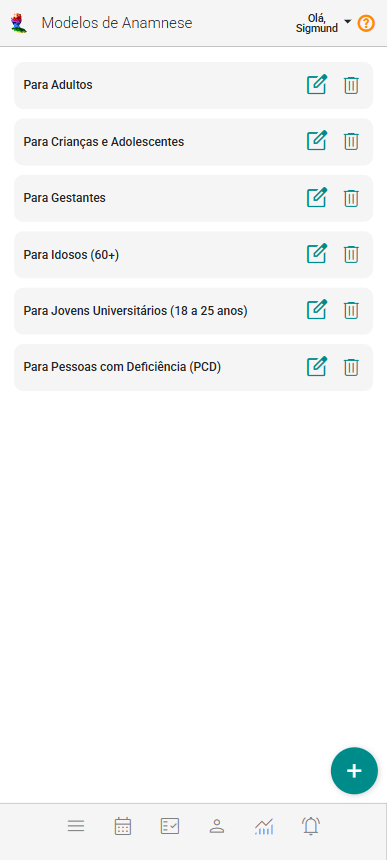
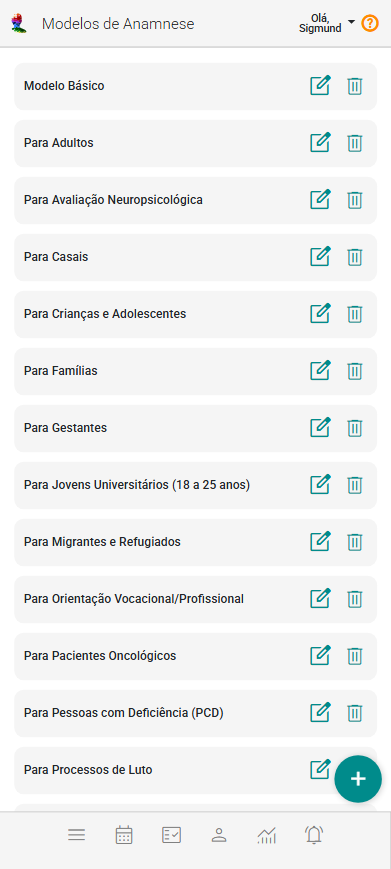
nilson

diff --git a/docs/03-funcionalidades/18-modelo-anamnese/00-visao.md b/docs/03-funcionalidades/18-modelo-anamnese/00-visao.md
@@ -34,11 +34,42 @@ A diferença entre prontuário e anamnese está no conteúdo, na finalidade e no
 
 O eConsult já vem com modelos adaptados ao seu perfil profissional, mas você pode personalizá-los ou criar novos modelos diretamente no painel "Modelos de Anamnese".
 
+Abaixo a tela de modelos de anamnese voltados para Psicologia:
+
 ![Modelos de Anamnese](../../../static/img/prints/anamnese/001.png)
 
-Os modelos de anamnese contêm "Tópicos", e dentro desses tópicos há "Campos".
+O eConsult tem mais de 50 modelos de anamnese para as diversas áreas de atuação. No caso de psicologia, por exemplo o econsult apresenta 26 modelos prontos para usar. São eles:
 
-Os tópicos organizam a anamnese em seções, permitindo que as informações sejam registradas de maneira lógica e estruturada. Dentro de cada tópico, há campos específicos que definem os dados a serem preenchidos, como observações, diagnósticos, tratamentos, ou outros detalhes relevantes.
+1. Modelo Básico
+1. Para Adultos
+1. Para Avaliação Neuropsicológica
+1. Para Casais
+1. Para Crianças e Adolescentes
+1. Para Famílias
+1. Para Gestantes
+1. Para Jovens Universitários (18 a 25 anos)
+1. Para Migrantes e Refugiados
+1. Para Orientação Vocacional/Profissional
+1. Para Pacientes Oncológicos
+1. Para Pessoas com Deficiência (PCD)
+1. Para Processos de Luto
+1. Para Profissionais em Situação de Burnout
+1. Para Terceira Idade (60+)
+1. Para Transtornos Alimentares e da Ingestão Alimentar
+1. Para Transtornos de Ansiedade
+1. Para Transtornos de Espectro da Esquizofrenia e Psicóticos
+1. Para Transtornos Dissociativos
+1. Para Transtornos do Humor (Afetivos)
+1. Para Transtornos do Neurodesenvolvimento
+1. Para Transtornos do Sono-Vigília
+1. Para Transtornos Obsessivo-Compulsivos e Relacionados
+1. Para Transtornos Relacionados a Trauma e Estressores
+1. Para Transtornos Somatoformes
+1. Para Vítimas de Trauma
+
+Cada modelo de anamnese contêm "Tópicos", e dentro desses tópicos há "Campos".
+
+Os tópicos são seções da anamnes, permitindo que as informações sejam registradas de maneira lógica e estruturada. Dentro de cada tópico, há campos específicos que definem os dados a serem preenchidos, como observações, diagnósticos, tratamentos, ou outros detalhes relevantes.
 
 ## Estrutura dos Modelos de Anamnese:
 
@@ -47,10 +78,20 @@ Os tópicos organizam a anamnese em seções, permitindo que as informações se
 
 ## Como Funciona:
 
-- **Criação do Modelo:** Ao cadastrar um modelo de anamnese, você define os tópicos e os campos que deverão ser preenchidos em cada um deles.
-- **Personalização dos Campos:** Os nomes dos campos podem ser totalmente personalizados conforme suas necessidades específicas de atendimento.
-- **Inclusão ou exclusão de Campos:** É possível adicionar ou remover campos dentro de cada tópico, de forma flexível e adaptável à sua prática profissional.
-- **Utilização de Pré-definições do sistema:** Ao iniciar um novo prontuário para um cliente, as pré-definições poderão ser utilizadas como base, guiando o preenchimento dos tópicos e campos de maneira estruturada.
+- **Criação do Modelo:**  
+  Ao cadastrar ou utilizar um modelo de anamnese no eConsult, você tem liberdade para definir os tópicos e os campos que deverão ser preenchidos. Isso permite adaptar cada modelo ao seu estilo de atendimento.
+
+- **Personalização de Campos:**  
+  Os nomes dos campos são totalmente personalizáveis, permitindo que você os ajuste conforme as necessidades específicas da sua prática profissional.
+
+- **Adição e Remoção de Campos:**  
+  É possível incluir novos campos ou remover os existentes dentro de cada tópico, de forma flexível e adaptável à realidade de cada público ou especialidade.
+
+- **Uso dos Modelos no Prontuário:**  
+  Ao iniciar um novo prontuário para um cliente, você pode utilizar um modelo previamente cadastrado como base. Ele serve como guia para o preenchimento estruturado dos tópicos e campos.  
+
+  Além disso, mesmo após selecionar um modelo, você ainda pode personalizá-lo conforme o perfil ou necessidade individual de cada cliente.
+
 
 ## Benefícios dos Modelos de Anamnese:
 
@@ -58,11 +99,9 @@ Os tópicos organizam a anamnese em seções, permitindo que as informações se
 - **Eficiência:** Facilita a criação e o preenchimento de prontuários, economizando tempo e reduzindo erros.
 - **Organização:** Ajuda a manter as informações bem estruturadas e acessíveis.
 
-## Pré-definições de Modelos de Anamnese
+## Inclui modelos de anamnese do eConsult
 
-Ao iniciar a criação de um novo modelo de anamnese, o sistema disponibiliza uma variedade de estruturas pré-definidas, desenvolvidas para atender diferentes perfis de profissionais e tipos de atendimento. Essas estruturas servem como um guia inicial, oferecendo uma base organizada com tópicos e campos comuns à sua prática consultiva.
-
-Após escolher uma dessas pré-definições, você tem total liberdade para editá-la conforme suas necessidades. É possível renomear tópicos, incluir novos campos, remover itens que não se aplicam à sua realidade e reorganizar o conteúdo como preferir. Isso garante que o modelo final reflita com precisão o seu método de trabalho, tornando o modelo uma ferramenta realmente útil, personalizado e alinhado com sua abordagem profissional.
+1. No painel "Modelos de Anamnese" clique no botão "Restaurar Padrões do Sistema" ![Modelo de Anamnese](../../../static/img/prints/buttons/btn_add.png).
 
 ## Incluir um novo Modelo de Anamnese
 

diff --git a/docs/03-funcionalidades/16-campanha-cashback/00-visao.md b/docs/03-funcionalidades/16-campanha-cashback/00-visao.md
@@ -2,21 +2,22 @@
 sidebar_position: 0
 ---
 
-# Sobre Campanhas de *cashback*
+# Sobre Campanhas de cashback
 
 :::danger ATENÇÃO
 Esta funcionalidade ainda etá em desenvolvimento e será liberada em breve
 :::
 
-A funcionalidade Campanhas de *cashback* permite que você crie incentivos personalizados para seus clientes, oferecendo *cashback* mensais com base em critérios de engajamento. O objetivo é recompensar clientes fiéis, incentivar a continuidade dos atendimentos e aumentar o volume de agendamentos.
+<!--
+A funcionalidade Campanhas de cashback permite que você crie incentivos personalizados para seus clientes, oferecendo cashback mensais com base em critérios de engajamento. O objetivo é recompensar clientes fiéis, incentivar a continuidade dos atendimentos e aumentar o volume de agendamentos.
 
-## O que são Campanhas de *cashback*?
+## O que são Campanhas de cashback?
 
-Campanhas de *cashback* consistem em ações promocionais criadas pelo especialista (você), que concedem *cashback* fixos (em reais) ou percentuais (%) sobre o valor dos atendimentos do mês, para clientes que atendam a determinados critérios. Esses critérios são configuráveis e permitem grande flexibilidade para adequar a campanha ao perfil de cada profissional e sua clientela.
+Campanhas de cashback consistem em ações promocionais criadas pelo especialista (você), que concedem cashback fixos (em reais) ou percentuais (%) sobre o valor dos atendimentos do mês, para clientes que atendam a determinados critérios. Esses critérios são configuráveis e permitem grande flexibilidade para adequar a campanha ao perfil de cada profissional e sua clientela.
 
-## Critérios para Concessão do *cashback*
+## Critérios para Concessão do cashback
 
-Você pode definir uma ou mais das seguintes condições para que o cliente tenha direito ao *cashback*:
+Você pode definir uma ou mais das seguintes condições para que o cliente tenha direito ao cashback:
 
 - **Score do Cliente**: baseado em critérios de score definidos no sistema. São os critérios possíveis:
     - **★★★★★ – Excelente – Muito acima da média**: O cliente, no período, demonstrou que está muito acima da média em valor gerado, frequência e engajamento. Costuma ser altamente fiel, constante e valioso para o negócio. Ideal para programas de fidelização e reconhecimento.
@@ -29,13 +30,13 @@ Você pode definir uma ou mais das seguintes condições para que o cliente tenh
 
 ### Exemplos:
 
-- “Clientes com score **cinco estrelas** e pelo menos 3 atendimentos no mês recebem 15% de *cashback*.”
+- “Clientes com score **cinco estrelas** e pelo menos 3 atendimentos no mês recebem 15% de cashback.”
 
-- “Clientes que **gastarem mais** de R$ 500,00 no mês **recebem** R$ 50,00 de ***cashback*”**
+- “Clientes que **gastarem mais** de R$ 500,00 no mês **recebem** R$ 50,00 de **cashback”**
 
-## Criar campanha de *cashback*
+## Criar campanha de cashback
 
-1. Acesse o menu "Campanhas de *cashback*".
+1. Acesse o menu "Campanhas de cashback".
 
 1. Clique em "Nova Campanha".
 
@@ -43,16 +44,16 @@ Você pode definir uma ou mais das seguintes condições para que o cliente tenh
 
     - Nome da campanha;
     - Período de validade;
-    - Tipo de *cashback* (fixo ou percentual);
-    - Valor do *cashback*;
+    - Tipo de cashback (fixo ou percentual);
+    - Valor do cashback;
     - Critérios de elegibilidade (score, frequência, valor acumulado);
     - Salve a campanha.
 
-### Aplicação do *cashback*:
+### Aplicação do cashback:
 
 Ao final de cada mês, o sistema avalia automaticamente quais clientes atenderam aos critérios.
 
-Os clientes elegíveis recebem o *cashback* (crédito antecipado) automaticamente que poderá ser gasto nos próximos atendimentos.
+Os clientes elegíveis recebem o cashback (crédito antecipado) automaticamente que poderá ser gasto nos próximos atendimentos.
 
 ### Acompanhamento:
 
@@ -66,3 +67,4 @@ O especialista pode acompanhar o desempenho da campanha, visualizando:
 - Campanhas podem ser pausadas, editadas ou encerradas a qualquer momento.
 - Cada cliente pode ser elegível a apenas uma campanha por mês (caso existam múltiplas ativas).
 :::
+-->

diff --git a/docs/03-funcionalidades/12-inadimplencias/00-visao.md b/docs/03-funcionalidades/12-inadimplencias/00-visao.md
@@ -16,7 +16,7 @@ Uma vez indicado o cliente ou grupo de atendimento, o sistema mostra:
 
 ![Painel Inadimplências](../../../static/img/prints/inadimplencias/002.png)
 
-Cada fatura é composta basicamente pelos seguintes elementos:
+Cada fatura é composto basicamente pelos seguintes elementos:
 
 - **Valor de Vencimento:** O montante a ser cobrado pelo atendimento prestado. Este valor é registrado na fatura e serve como base para o controle financeiro.
 - **Data de Vencimento:** A data limite para o pagamento da fatura. Ajuda a determinar o prazo em que o pagamento deve ser efetuado.
@@ -44,7 +44,7 @@ Sendo assim, no painel Faturas do Cliente, você encontrará duas sub-abas disti
 
 Na sub-aba Pendentes, você tem duas funções importantes para gerenciar faturas pendentes:
 
-- **Função "Notificar":** Permite notificar o cliente diretamente pelo WhatsApp sobre os pagamentos pendentes que estão marcados (selecionadas). Ao acionar essa função, uma mensagem personalizada pode ser enviada, alertando o cliente sobre a necessidade de quitação das faturas em aberto que estão marcadas (selecionadas). Essa comunicação direta ajuda a lembrar o cliente de forma rápida e eficaz.
+- **Função "Notificar":** Permite notificar o cliente diretamente pelo WhatsApp sobre os pagamentos pendentes que estão marcados (selecionados). Ao acionar essa função, uma mensagem personalizada pode ser enviada, alertando o cliente sobre a necessidade de quitação das faturas em aberto que estão marcadas (selecionadas). Essa comunicação direta ajuda a lembrar o cliente de forma rápida e eficaz.
 
     ![Painel Inadimplências](../../../static/img/prints/inadimplencias/006.png)
 
@@ -58,7 +58,7 @@ Na sub-aba Pendentes, você tem duas funções importantes para gerenciar fatura
 
 Na sub-aba Recebidas, você também dispõe de duas funções importantes para gerenciar as faturas já quitadas:
 
-- **Notificar:** Permite informar ao cliente, através do WhatsApp, que o pagamento das faturas marcadas (selecionadas) foram recebidas e registradas. Isso mantém o cliente atualizado e garante uma comunicação eficiente.
+- **Notificar:** Permite informar ao cliente, através do WhatsApp ou E-mail, que o pagamento das faturas marcadas (selecionadas) foram recebidas e registradas. Isso mantém o cliente atualizado e garante uma comunicação eficiente.
 - **Recibo:** Com essa função, você pode gerar e fornecer um recibo seu oficial para o cliente, contendo as faturas marcadas (selecionadas), documentando o pagamento efetuado de maneira clara e profissional.
 
 Essas funções ajudam a manter o registro financeiro organizado e a garantir uma comunicação transparente com o cliente.

diff --git a/docs/03-funcionalidades/08-faturas-cliente/00-visao.md b/docs/03-funcionalidades/08-faturas-cliente/00-visao.md
@@ -14,7 +14,7 @@ Uma vez indicado o cliente ou grupo de atendimento, o sistema mostra:
 
 ![Painel Faturas do Cliente](../../../static/img/prints/faturascliente/002.png)
 
-Cada *card* de fatura é composta basicamente pelos seguintes elementos:
+Cada *card* de fatura é composto basicamente pelos seguintes elementos:
 
 - **Valor de Vencimento:** O montante a ser cobrado pelo atendimento prestado. Este valor é registrado na fatura e serve como base para o controle financeiro.
 
@@ -46,7 +46,7 @@ Sendo assim, no painel Faturas do Cliente, você encontrará duas sub-abas disti
 
 Na sub-aba Pendentes, você tem duas funções importantes para gerenciar faturas pendentes:
 
-- **Função "Notificar":** Permite notificar o cliente diretamente pelo WhatsApp e/ou E-mail sobre os pagamentos pendentes que estão marcados (selecionadas). Ao acionar essa função, uma mensagem personalizada pode ser enviada, alertando o cliente sobre a necessidade de quitação das faturas em aberto que estão marcadas (selecionadas). Essa comunicação direta ajuda a lembrar o cliente de forma rápida e eficaz.
+- **Função "Notificar":** Permite notificar o cliente diretamente pelo WhatsApp ou E-mail sobre os pagamentos pendentes que estão marcados (selecionados). Ao acionar essa função, uma mensagem personalizada pode ser enviada, alertando o cliente sobre a necessidade de quitação das faturas em aberto que estão marcadas (selecionadas). Essa comunicação direta ajuda a lembrar o cliente de forma rápida e eficaz.
 
     ![Painel Faturas do Cliente](../../../static/img/prints/faturascliente/006.png)
 
@@ -60,7 +60,7 @@ Na sub-aba Pendentes, você tem duas funções importantes para gerenciar fatura
 
 Na sub-aba Recebidas, você também dispõe de duas funções importantes para gerenciar as faturas já quitadas:
 
-- **Notificar:** Permite informar ao cliente, através do WhatsApp, que o pagamento das faturas marcadas (selecionadas) foram recebidas e registradas. Isso mantém o cliente atualizado e garante uma comunicação eficiente.
+- **Notificar:** Permite informar ao cliente, através do WhatsApp ou E-mail, que o pagamento das faturas marcadas (selecionadas) foram recebidas e registradas. Isso mantém o cliente atualizado e garante uma comunicação eficiente.
 
 - **Recibo:** Com essa função, você pode gerar e fornecer um recibo seu oficial para o cliente, contendo as faturas marcadas (selecionadas), documentando o pagamento efetuado de maneira clara e profissional.
 

diff --git a/docs/03-funcionalidades/17-recibos/00-visao.md b/docs/03-funcionalidades/17-recibos/00-visao.md
@@ -4,7 +4,7 @@ sidebar_position: 0
 
 # Sobre Recibos
 
-O painel Recibos oferece uma visão completa de todos os recibos emitidos pelo sistema, abrangendo tanto os ativos quanto aqueles que foram cancelados. Cada recibo é exibido de forma clara e organizada, apresentado em formato de *cards* individuais, facilitando a visualização rápida das informações essenciais. Essa estrutura permite ao usuário identificar facilmente o status e os detalhes de cada recibo, proporcionando maior controle e agilidade na gestão dos documentos financeiros.
+O painel Recibos oferece uma visão completa de todos os recibos emitidos pelo sistema, abrangendo tanto os ativos quanto aqueles que foram cancelados. Cada recibo é exibido de forma clara e organizada, apresentados em formato de *cards* individuais, facilitando a visualização rápida das informações essenciais. Essa estrutura permite ao usuário identificar facilmente o status e os detalhes de cada recibo, proporcionando maior controle e agilidade na gestão dos documentos financeiros.
 
 ![Recibos](../../../static/img/prints/recibos/001.png)
 
@@ -25,5 +25,5 @@ O painel Recibos oferece uma visão completa de todos os recibos emitidos pelo s
 1. O sistema gerará e imprimirá o recibo em um arquivo PDF, permitindo que você o salve ou o imprima conforme necessário.
 
 :::note
-    Você pode cancelar um pedido utilizando a opção "Cancelamento" ![Recibo](../../../static/img/prints/buttons/btn_cancelar.png) disponível nos *cards*. Essa funcionalidade permite que você marque um pedido como cancelado, atualizando automaticamente seu status e garantindo que a alteração seja refletida no sistema. É importante lembrar que o cancelamento é irreversível.
+    Você pode cancelar um recibo utilizando a opção "Cancelamento" ![Recibo](../../../static/img/prints/buttons/btn_cancelar.png) disponível nos *cards*. Essa funcionalidade permite que você marque o recibo como cancelado, atualizando automaticamente seu status e garantindo que a alteração seja refletida no sistema. É importante lembrar que o cancelamento é irreversível.
 :::

diff --git a/docs/02-iniciando/02_interface-navegacao/04_menu-principal.md b/docs/02-iniciando/02_interface-navegacao/04_menu-principal.md
@@ -30,7 +30,7 @@ O Menu Principal pode ser acessado através do botão ![Botão Tarefas](../../..
 | **Perdas recuperadas** | Abre o [Painel Perdas Recuperadas](/docs/funcionalidades/perdas-recuperadas/visao) - monitora valores recuperados após baixa contábil, apoiando a gestão da inadimplência, a revisão de estratégias e a transparência financeira.|
 | **Análise de score** | Abre o [Painel Análise de Score](/docs/funcionalidades/analise-score/visao) - exibe o score dos clientes com base no histórico e comportamento, facilitando decisões estratégicas com análises por mês, ano e global.|
 | **Campanhas de cashback** | Abre o [Painel Campanhas de Cashback](/docs/funcionalidades/campanha-cashback/visao) - permite criar campanhas de cashback para engajar clientes, recompensar fidelidade e aumentar a continuidade e volume dos atendimentos.|
-| **Recibos** | Abre o [Painel Recibos](/docs/funcionalidades/recibos/visao) - exibe todos os recibos emitidos, ativos ou cancelados, em cards organizados, facilitando o controle e a visualização das informações.|
+| **Recibos** | Abre o [Painel Recibos](/docs/funcionalidades/recibos/visao) - exibe todos os recibos emitidos, ativos ou cancelados, em *cards* organizados, facilitando o controle e a visualização das informações.|
 | **Modelos de anamnese** | Abre o [Painel Modelos de Anamnese](/docs/funcionalidades/modelo-anamnese/visao) - permite a gestão de modelos de anamnese personalizados para coletar informações específicas de clientes, facilitando a padronização dos dados usados no prontuário.|
 | **Arquivos** | Abre o [Painel Arquivos](/docs/funcionalidades/arquivos/visao) - permite visualizar e anexar arquivos vinculados a clientes, grupos ou atendimentos usando o sistema integrado de gerenciamento de arquivos.|
 | **Relatórios** | Abre o [Painel Relatórios](/docs/funcionalidades/relatorios/visao) - oferece ferramentas para gerar relatórios detalhados sobre desempenho, finanças e relacionamento, facilitando análise estratégica dos atendimentos.|

diff --git a/docs/03-funcionalidades/11-consolidacao-financeira/00-visao.md b/docs/03-funcionalidades/11-consolidacao-financeira/00-visao.md
@@ -33,5 +33,5 @@ O painel Consolidação Financeira é uma ferramenta estratégica indispensável
     - **Saldo a Realizar:** Calcula a diferença entre o total a receber e o total a pagar. Representa o saldo de transações futuras que precisam ser realizadas para equilibrar as finanças, ajudando a planejar o fluxo de caixa.
 
 :::note
-Os totalizadores "Recebido", "Pago", "A Receber" e "A Pagar" incluem a opção "![Consolidação Financeira](../../../static/img/prints/consolidacao/007.png)" ou "![Consolidação Financeira](../../../static/img/prints/consolidacao/008.png)" que, ao ser clicada, exibe os eventos correspondentes em forma de *cards*. Esses "cards" fornecem uma visão detalhada dos eventos que compõem cada totalizador, permitindo uma análise mais aprofundada do que cada métrica representa. Essa funcionalidade facilita a visualização e o acompanhamento dos detalhes específicos de cada totalizador.
+Os totalizadores "Recebido", "Pago", "A Receber" e "A Pagar" incluem a opção "![Consolidação Financeira](../../../static/img/prints/consolidacao/007.png)" ou "![Consolidação Financeira](../../../static/img/prints/consolidacao/008.png)" que, ao ser clicada, exibe os eventos correspondentes em forma de *cards*. Esses *cards* fornecem uma visão detalhada dos eventos que compõem cada totalizador, permitindo uma análise mais aprofundada do que cada métrica representa. Essa funcionalidade facilita a visualização e o acompanhamento dos detalhes específicos de cada totalizador.
 :::

diff --git a/docs/03-funcionalidades/14-perdas-recuperadas/00-visao.md b/docs/03-funcionalidades/14-perdas-recuperadas/00-visao.md
@@ -60,7 +60,7 @@ No eConsult, créditos com data futura são automaticamente classificados como "
 
 Para que sejam considerados "Realizados", é necessário confirmar a efetivação do pagamento. Essa mudança só ocorrerá se a data do pagamento for igual ou anterior à data atual.
 
-1. No *card" do crédito acione a opção ![Perdas Recuperadas](../../../static/img/prints/perdas/012.png).
+1. No *card* do crédito acione a opção ![Perdas Recuperadas](../../../static/img/prints/perdas/012.png).
 
 1. Preencha no campo "Data" a data que você recebeu efetivamente o valor correspondente ao crédito.
 
@@ -85,7 +85,7 @@ Para que sejam considerados "Realizados", é necessário confirmar a efetivaçã
 
     - Essa informação (Previsto ou Realizado) também estará visível no *card* correspondente ao crédito.
 
-    Além disso, créditos com o status "Previsto" serão incluídos automaticamente na alerta respectivo do painel "Alertas", indicando que há um pagamento pendente de confirmação.
+    Além disso, créditos com o status "Previsto" serão incluídos automaticamente no alerta respectivo do painel "Alertas", indicando que há um pagamento pendente de confirmação.
 
     ![Perdas Recuperadas](../../../static/img/prints/perdas/009.png)
 

diff --git a/docs/03-funcionalidades/13-perdas-baixas-contabeis/00-visao.md b/docs/03-funcionalidades/13-perdas-baixas-contabeis/00-visao.md
@@ -68,7 +68,7 @@ No eConsult, créditos com data futura são automaticamente classificados como "
 
 Para que sejam considerados "Realizados", é necessário confirmar a efetivação do pagamento. Essa mudança só ocorrerá se a data do pagamento for igual ou anterior à data atual.
 
-1. No *card" do crédito acione a opção ![Baixas Contábeis](../../../static/img/prints/perdas/012.png).
+1. No *card* do crédito acione a opção ![Baixas Contábeis](../../../static/img/prints/perdas/012.png).
 
 1. Preencha no campo "Data" a data que você recebeu efetivamente o valor correspondente ao crédito.
 
@@ -93,7 +93,7 @@ Para que sejam considerados "Realizados", é necessário confirmar a efetivaçã
 
     - Essa informação (Previsto ou Realizado) também estará visível no *card* correspondente ao crédito.
 
-    Além disso, créditos com o status "Previsto" serão incluídos automaticamente na alerta respectivo do painel "Alertas", indicando que há um pagamento pendente de confirmação.
+    Além disso, créditos com o status "Previsto" serão incluídos automaticamente no alerta respectivo do painel "Alertas", indicando que há um pagamento pendente de confirmação.
 
     ![Baixas Contábeis](../../../static/img/prints/perdas/009.png)
 

diff --git a/docs/03-funcionalidades/05-lembretes/00-visao.md b/docs/03-funcionalidades/05-lembretes/00-visao.md
@@ -6,7 +6,7 @@ sidebar_position: 0
 
 O painel "Lembretes de Atendimentos" do eConsult é uma ferramenta que apoia a gestão e o acompanhamento dos atendimentos de forma prática e organizada.
 
-Ele centraliza os atendimentos que compartilham o mesmo tipo de lembrete, agrupando-os de maneira lógica e intuitiva em cards individuais. Essa estrutura facilita a visualização e o acesso rápido às informações mais relevantes de cada atendimento, otimizando o fluxo de trabalho do profissional.
+Ele centraliza os atendimentos que compartilham o mesmo tipo de lembrete, agrupando-os de maneira lógica e intuitiva em *cards* individuais. Essa estrutura facilita a visualização e o acesso rápido às informações mais relevantes de cada atendimento, otimizando o fluxo de trabalho do profissional.
 
 ![Painel Lembretes](../../../static/img/prints/lembretes/001.png)
 

diff --git a/docs/03-funcionalidades/02-clientes-grupos/01_cadastro/08_aba-creditos-e-perdas.md b/docs/03-funcionalidades/02-clientes-grupos/01_cadastro/08_aba-creditos-e-perdas.md
@@ -52,7 +52,7 @@ No eConsult, créditos com data futura são automaticamente classificados como "
 
 Para que sejam considerados "Realizados", é necessário confirmar a efetivação do pagamento. Essa mudança só ocorrerá se a data do pagamento for igual ou anterior à data atual.
 
-1. No *card" do crédito acione a opção ![Painel Clientes e Grupos](../../../../static/img/prints/perdas/012.png).
+1. No *card* do crédito acione a opção ![Painel Clientes e Grupos](../../../../static/img/prints/perdas/012.png).
 
 1. Preencha no campo "Data" a data que você recebeu efetivamente o valor correspondente ao crédito.
 

diff --git a/docs/03-funcionalidades/02-clientes-grupos/01_cadastro/07_aba-faturas.md b/docs/03-funcionalidades/02-clientes-grupos/01_cadastro/07_aba-faturas.md
@@ -10,7 +10,7 @@ A aba Faturas no eConsult é uma ferramenta essencial para a gestão financeira 
 
 Para cada atendimento cadastrado no sistema, uma fatura correspondente é gerada automaticamente. Essas faturas incluem informações essenciais para o controle financeiro e a gestão de pagamentos.
 
-Cada fatura é composta basicamente pelos seguintes elementos:
+Cada *card* de fatura é composto basicamente pelos seguintes elementos:
 
 - **Valor de Vencimento:** O montante a ser cobrado pelo atendimento prestado. Este valor é registrado na fatura e serve como base para o controle financeiro.
 
